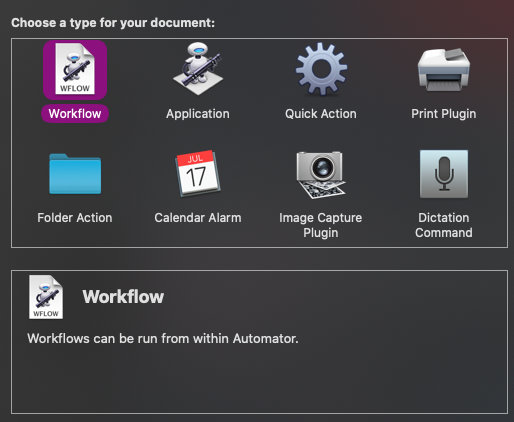
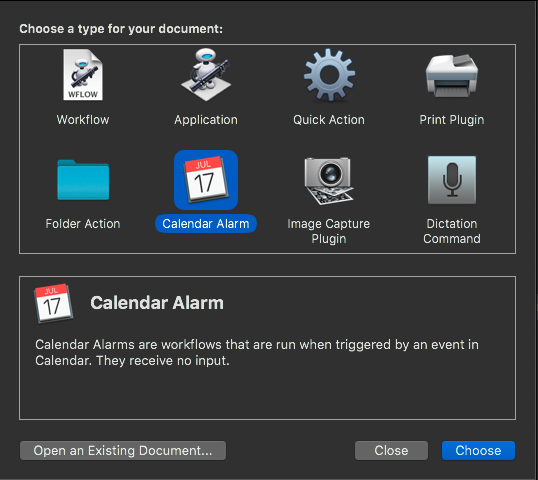
Updated post 086

Changed region(s): [[0.0, 0.0, 1.0, 1.0], [0.5292, 0.0924, 0.6848, 0.2773]]

diff --git a/content/posts/086-scheduled-updates-for-a-hugo-static-site.md b/content/posts/086-scheduled-updates-for-a-hugo-static-site.md
@@ -13,17 +13,19 @@ A few months ago I migrated a site, [The Compass Rose Band](https://compassroseb
 
 I tried a few different ideas I'd heard about, including [crontab](http://crontab.org), but on my Mac desktop I ended up settling on an [Automator](https://support.apple.com/guide/automator/welcome/mac) workflow.
 
-First, I set up events in the _Calendar_ app on the days I wanted the site to rebuild. I named these events "CRB Reload".
+## Calendar Events and Automator Setup
 
-  {{% figure title="Calendar screenshot" src="/images/post-086/calendar-screenshot.jpeg" %}}
+First, I set up a repeating event in the _Calendar_ app on the days I wanted the site to rebuild. I named these events "CRB Reload".
 
-Next, I launched _Automator_, and started a new workflow document.
+  {{% figure title="Calendar screenshot" src="/images/post-086/calendar-screenshot.png" %}}
+
+Next, I launched _Automator_, and started a new _Calendar Alarm_ document.
 
   {{% figure title="Automator screenshot" src="/images/post-086/automator-start.png" %}}
 
-Under _Library_, I opened the _Calendar_ options, and dragged 'Filter Calendar Items/Events' into the workspace.
+Under _Library_, I opened the _Calendar_ options, and dragged _Filter Calendar Items_ into the workspace.
 
-  {{% figure title="Calendar library" src="/images/post-086/calendar-library.jpeg" %}}
+  {{% figure title="Calendar library" src="/images/post-086/calendar-library.png" %}}
 
 I set the filter to pick up any events titled "CRB Reload" that were occurring on the current day.
 
@@ -33,17 +35,40 @@ Next, I tested out a few options in the _Utilities_ library.
 
   {{% figure title="Utilities library" src="/images/post-086/utilities-library.jpeg" %}}
 
-At first I tried using shell script to navigate to the site folder containing the `push-update.sh` file, but the file, at that time, had `docker login` commands hard-coded in, and required user input to run. I couldn't just add the `docker login` info to the file and expose the login credentials, so, after some Googling I decided to create a .txt file in my home directory containing only the docker password, and then passed that in to the `docker login` command using `cat` as documented in [Provide a password using STDIN](https://docs.docker.com/engine/reference/commandline/login/#provide-a-password-using-stdin).
+## Shell Script
 
-  {{% figure title="my_password.txt file" src="/images/post-086/text-file.jpeg" %}}
+Ultimately I ended up using the _Run Shell Script_ option to navigate to the site folder containing the `push-update.sh` file, but the file, at that time, had `docker login` commands hard-coded in, and required user input to run. I couldn't just add the `docker login` info to the file and expose the login credentials, so, after some Googling I decided to create a .txt file in my home directory containing only the Docker password, and then passed that in to the `docker login` command using `cat` as documented in [Provide a password using STDIN](https://docs.docker.com/engine/reference/commandline/login/#provide-a-password-using-stdin). Note that in the aforementioned .txt file the login password appears on a single line **with NO newline at the end!**
 
-I also updated `push-update.sh` so it contained only one login instead of the three `docker login` commands that were there previously.
+I also updated `push-update.sh` so it contained only one login instead of the three `docker login` commands that were there previously. That script now looks reads like this:
 
-  {{% figure title="The push-update.sh script" src="/images/post-086/push-update-file.jpeg" %}}
+```
+#!/bin/bash
+# current=`git symbolic-ref --short -q HEAD`
+# git checkout ${current}
 
-Now that I had a secure way to pass docker credentials to the login command, I could finish setting up the navigate-and-execute script in Automator. I dragged the option to 'Run AppleScript' into the work space under the calendar filter, and set up a script to `cd` into the site folder and then execute the `push-update.sh` file.
+## Login to docker, one time only!
+cat ~/summittdweller-docker-login.txt | /usr/local/bin/docker login -u summittdweller --password-stdin
 
-  {{% figure title="Workflow" src="/images/post-086/full-workflow.jpeg" %}}
+# Compile the site before copying to the new image.  Round 1 = compassroseband.net
+/usr/local/bin/hugo --ignoreCache --ignoreVendor --minify --debug --verbose --baseURL=https://compassroseband.net
+echo "Hugo's compassroseband.net compilation is complete."
+echo "Starting docker image build..."
+/usr/local/bin/docker image build -f push-update-Dockerfile --no-cache -t compassrose .
+echo "docker image build is complete."
+/usr/local/bin/docker tag compassrose summittdweller/compassrose1:latest
+/usr/local/bin/docker push summittdweller/compassrose1:latest
+...
+```
+
+## Finishing Up
+
+Now that I had a secure way to pass Docker credentials to the `docker login` command, I could finish setting up the navigate-and-execute script in _Automator_. I dragged the option to 'Run Shell Script' into the workspace under the _Calendar Filter_, and set up a script to `cd` into the site folder and then execute the `push-update.sh` file.  The entire _Calendar Alarm_ in _Automator_ looks like this:
+
+  {{% figure title="Complete Calendar Alarm" src="/images/post-086/full-workflow.png" %}}
+
+## One Final Glitch
+
+Unfortunately, this also failed because Docker was still configured to use a "credstore" that is not what I wanted. A little more searching the web lead me to [this Github Issue post](https://github.com/docker/docker-credential-helpers/issues/149#issuecomment-566832756) and it was just what I needed.  After making the specified change my _Automator_ works nicely.
 
 Throughout the process I used the 'Run' option (in the top right of the _Automator_ window) to test out the workflow. Now I can relax and watch it do its thing! :sweat_smile:
 
